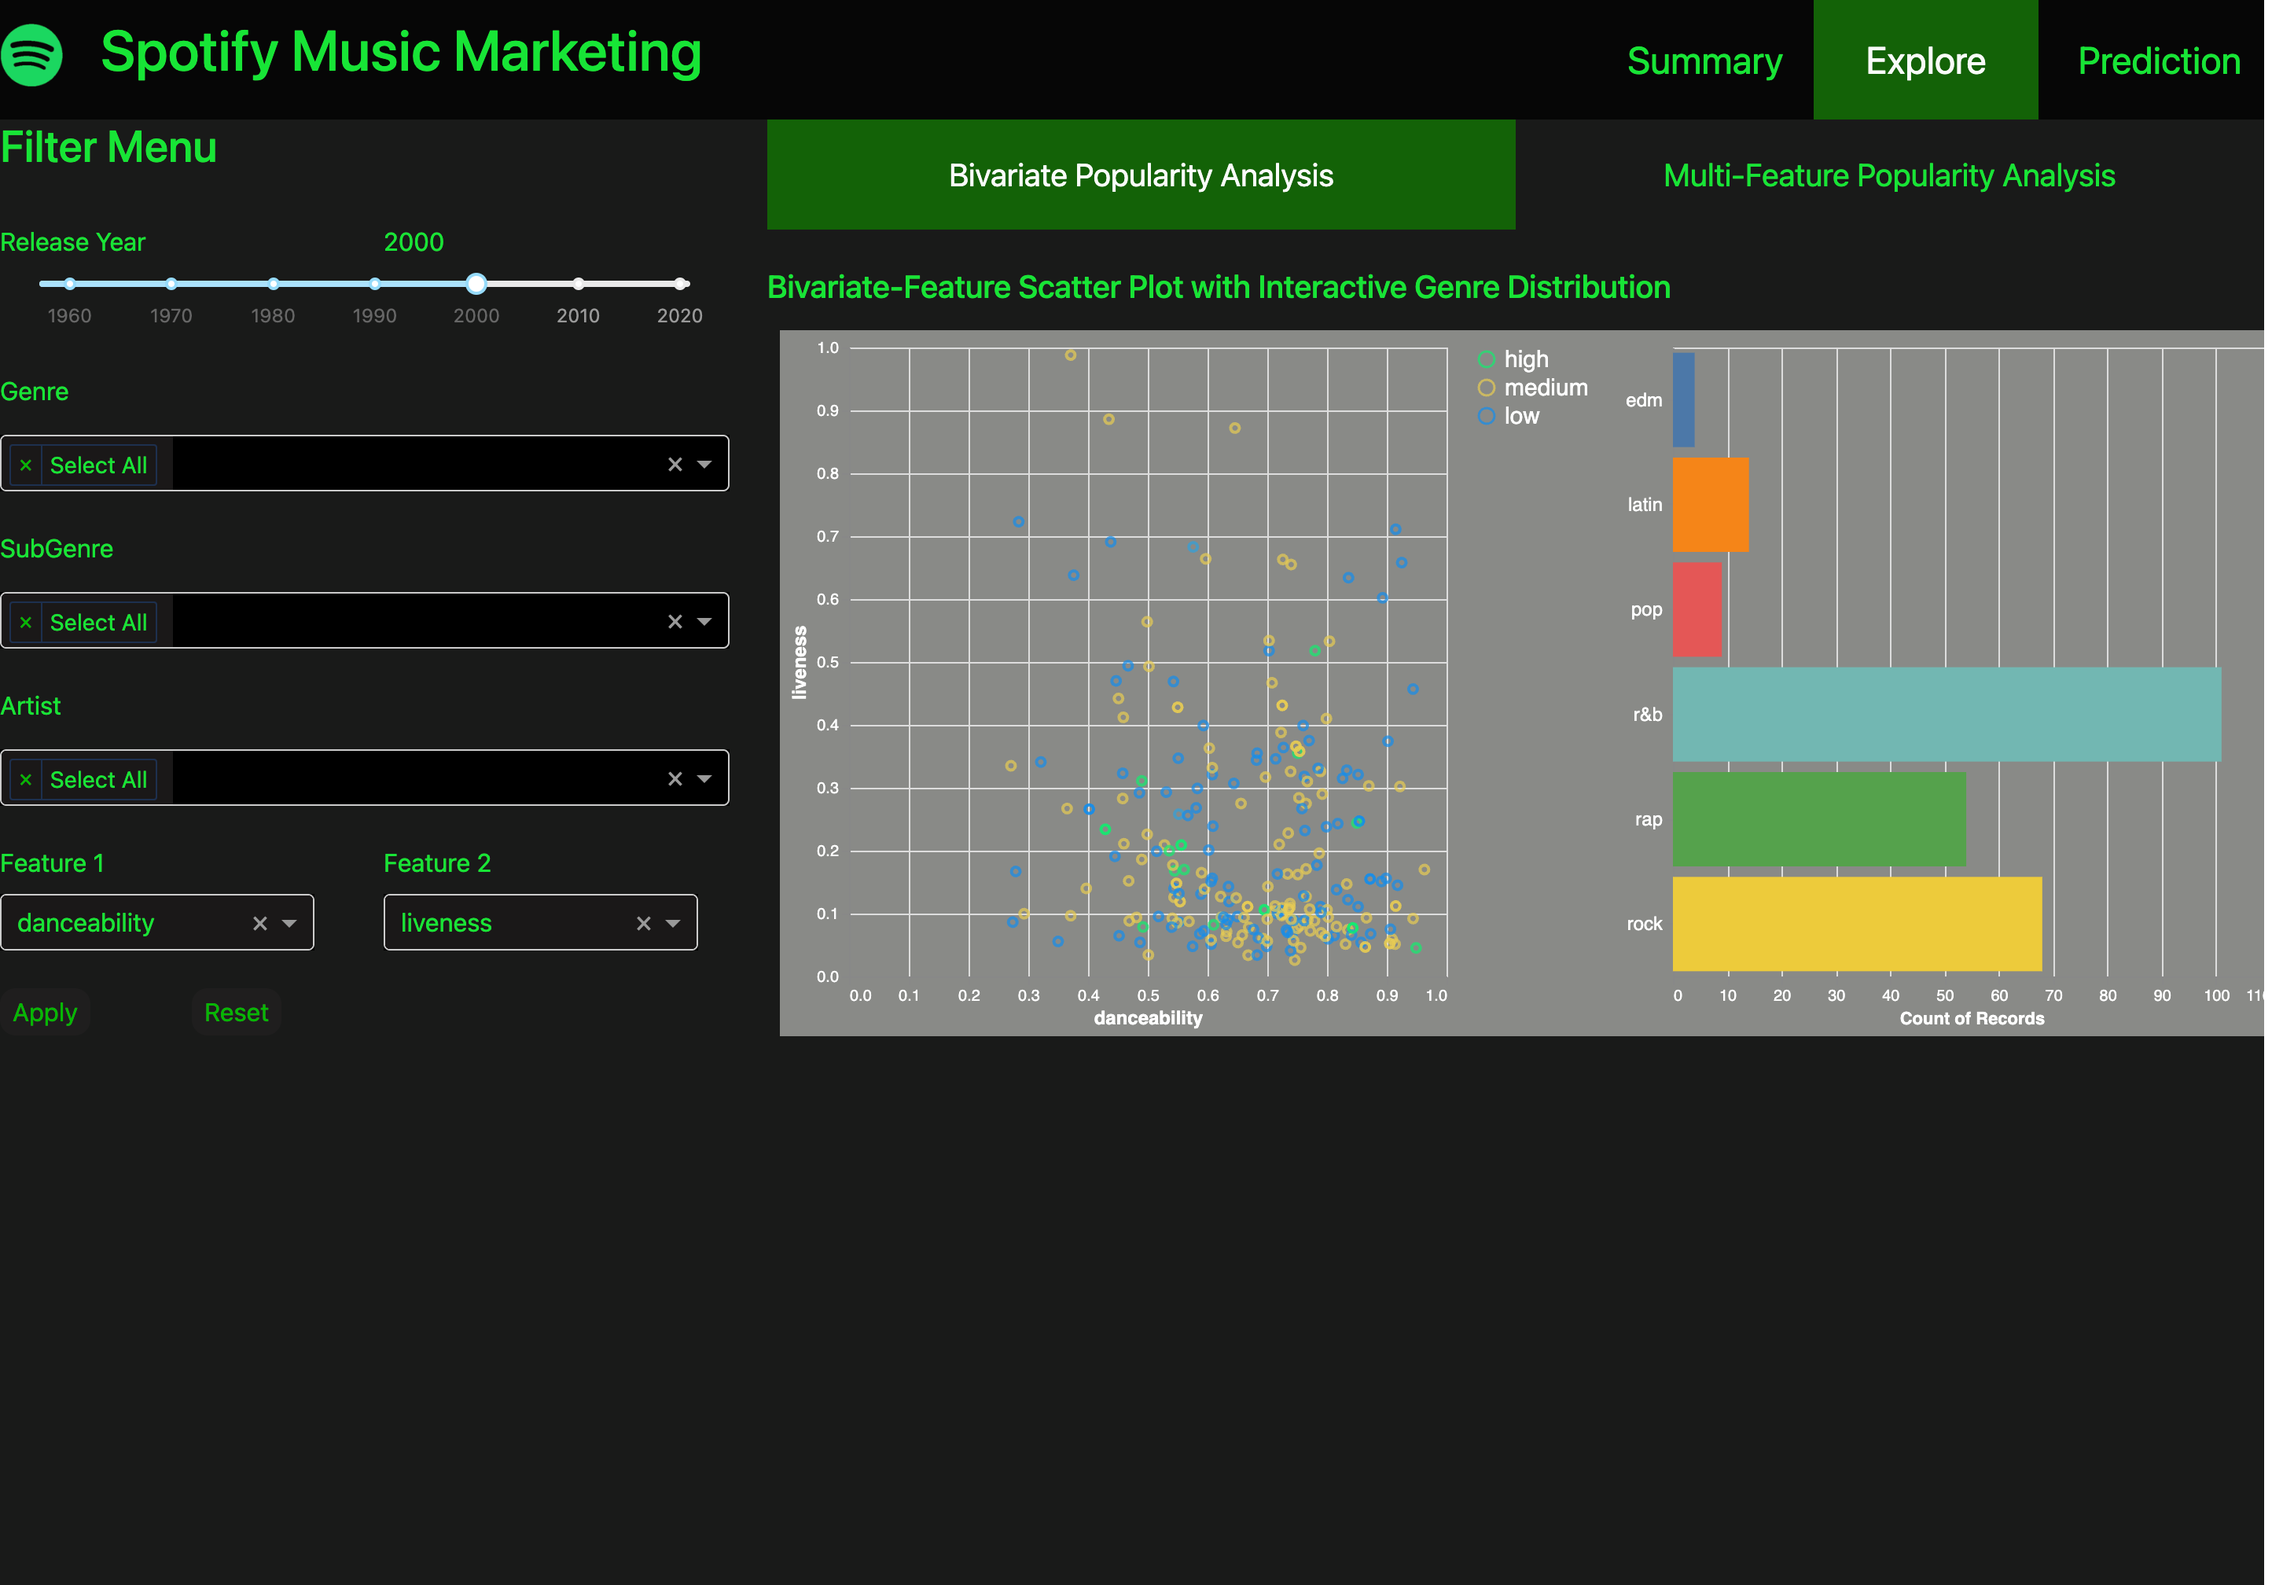
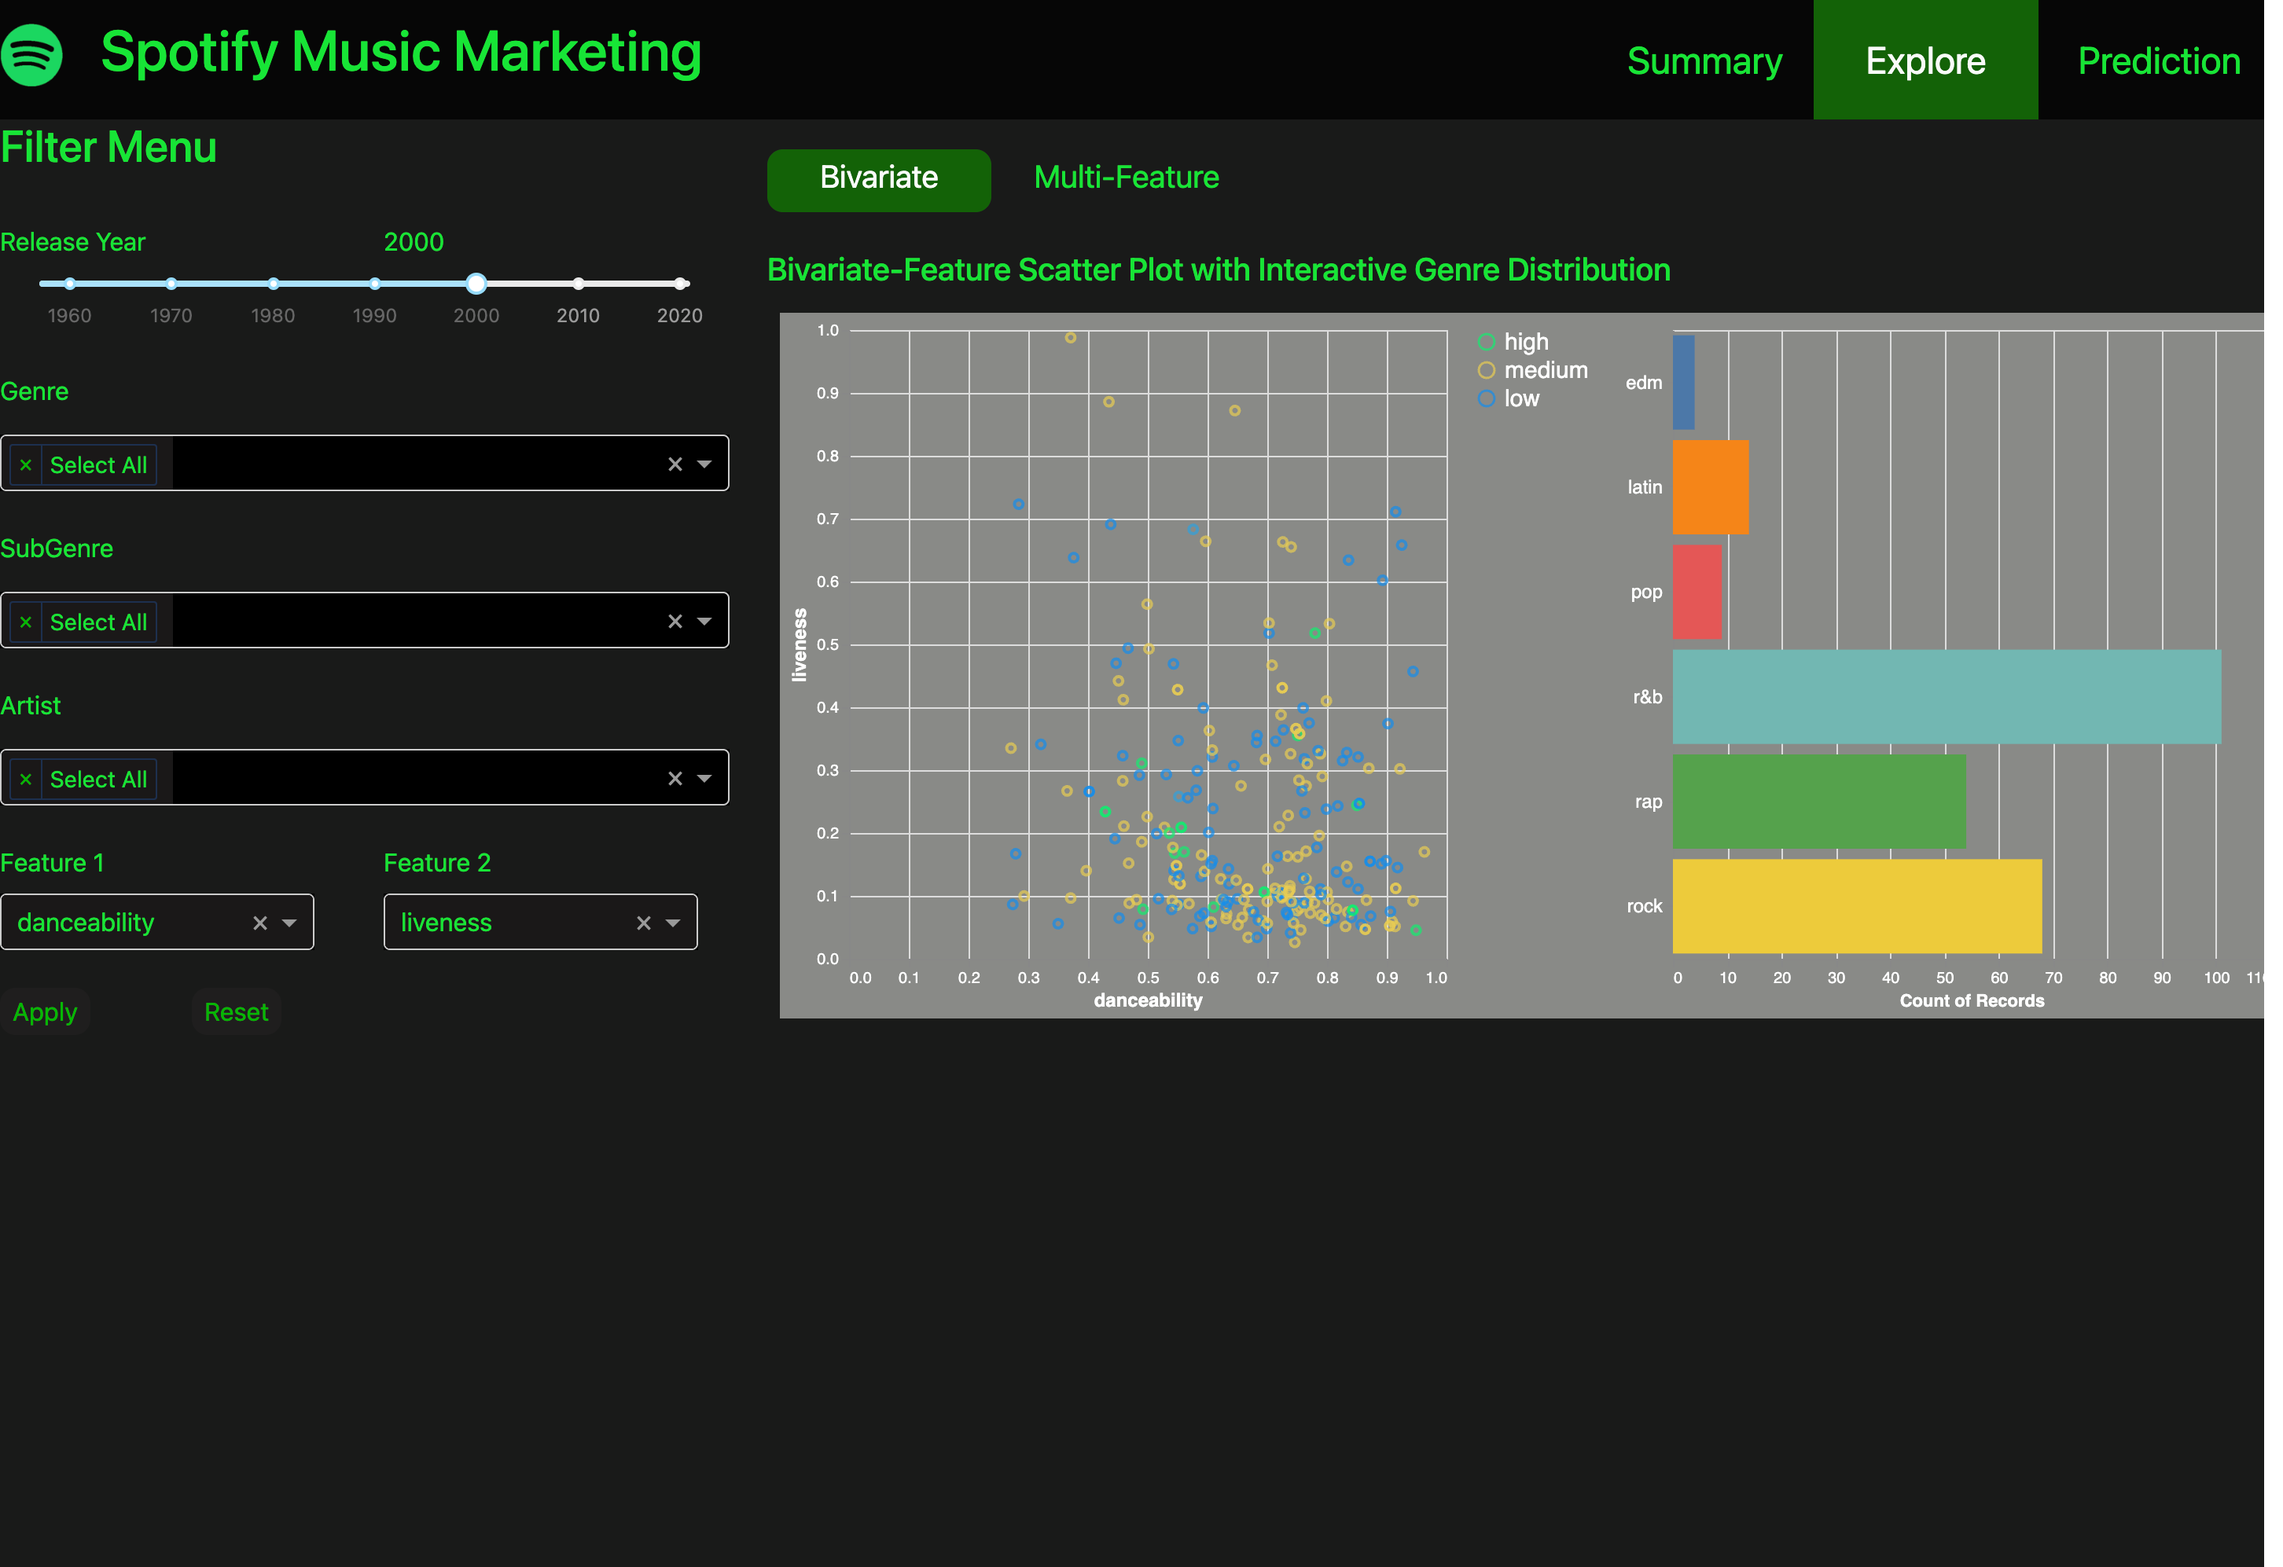
modified callback of scatter plot

diff --git a/src/app.py b/src/app.py
@@ -1013,13 +1013,14 @@ def update_top_10_popularity_songs_artists(n_clicks, start_date, end_date,select
 
 @app.callback(
     Output('feature_scatter-chart-iframe', 'srcDoc'),
-    [Input('apply-button-2a', 'n_clicks'),
-     Input('year-slider','value'),
-     Input('feature1-dropdown', 'value'),
-     Input('feature2-dropdown', 'value'),
-     Input('genre-dropdown-2a', 'value'),
-     Input('subgenre-dropdown-2a', 'value'),
-     Input("artist-dropdown-2a", "value")]
+    [Input('apply-button-2a', 'n_clicks')],
+    [State('year-slider', 'value'),
+     State('feature1-dropdown', 'value'),
+     State('feature2-dropdown', 'value'),
+     State('genre-dropdown-2a', 'value'),
+     State('subgenre-dropdown-2a', 'value'),
+     State('artist-dropdown-2a', 'value')]
+
 )
 
 def update_feature_scatter(n_clicks, select_year, f1, f2, selected_genres, selected_subgenres, selected_artists):
